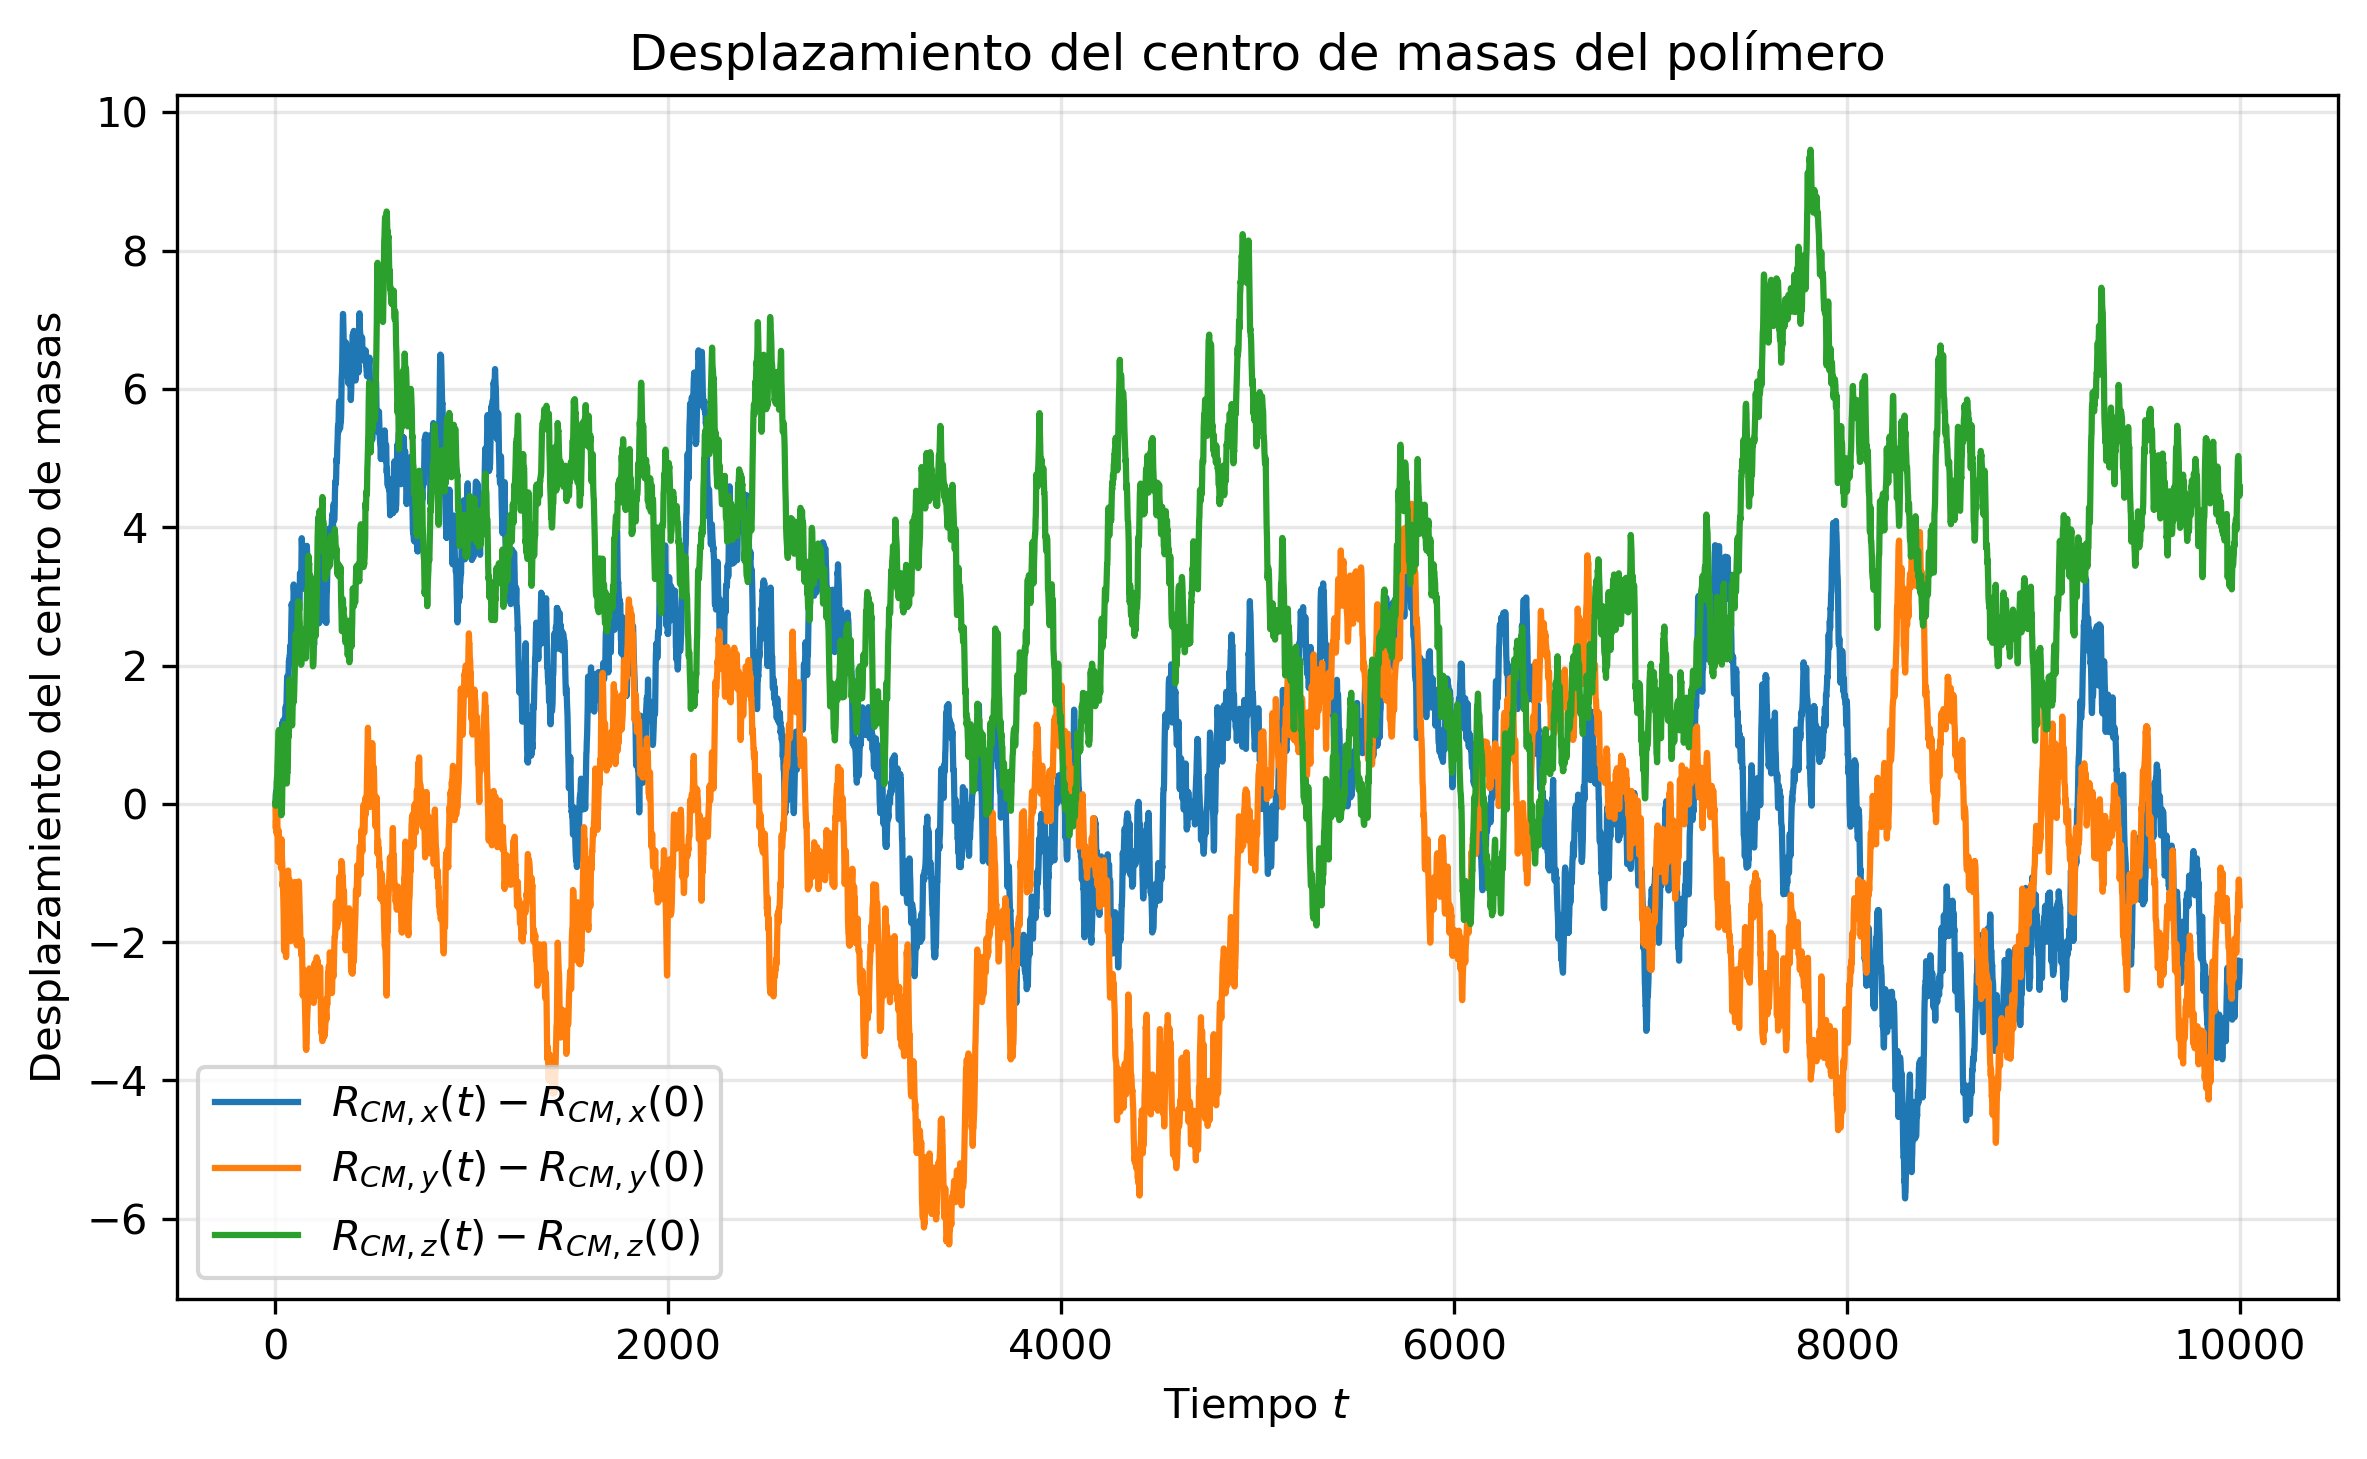
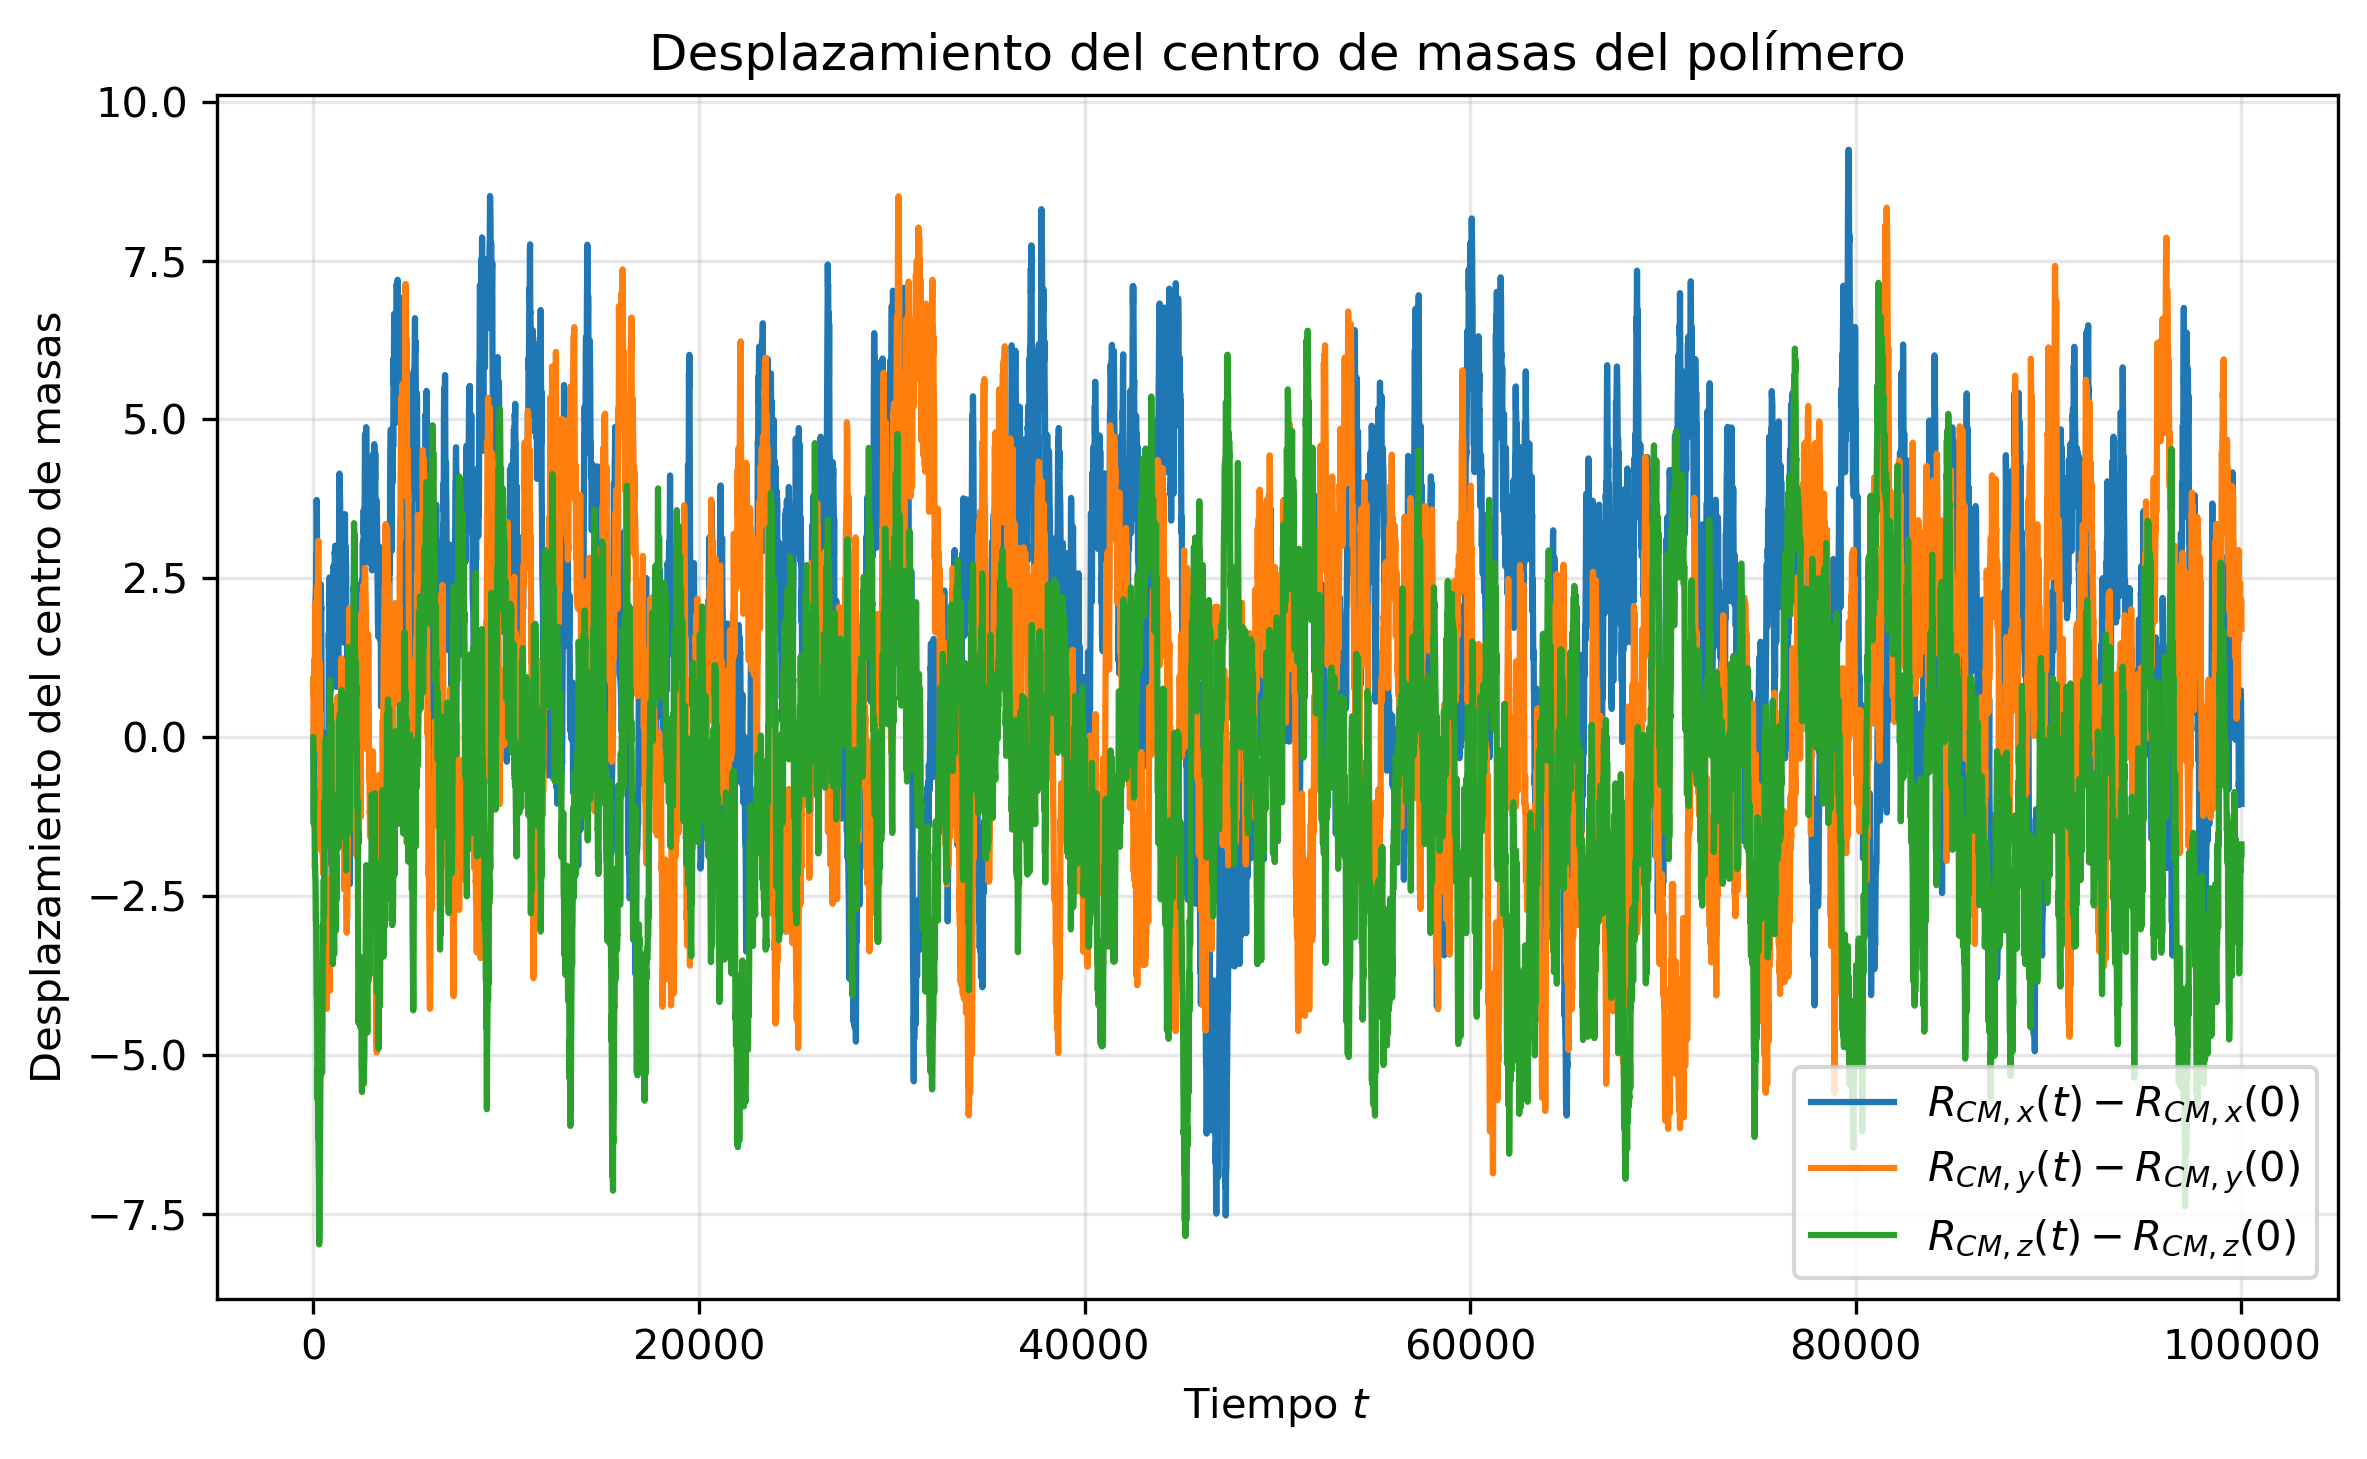
Force_sweep mejorado (ya estan todas laas tablas)

diff --git a/analysis/polymer_force_sweep.py b/analysis/polymer_force_sweep.py
@@ -15,7 +15,6 @@ data_file = project_root / "data" / "raw" / "polymer" / "polymer.csv"
 results_folder = project_root / "results" / "polymer" / "force_sweep"
 tables_folder = results_folder / "tables"
 figures_folder = results_folder / "figures"
-summary_file = tables_folder / "polymer_force_sweep.csv"
 figure_file = figures_folder / "polymer_end_to_end_vs_force.png"
 
 maximum_force = 100.0
@@ -83,6 +82,35 @@ def read_final_measurement(number_of_monomers):
     return final_time, last_x - first_x
 
 
+def read_existing_measurements(summary_file, spring_constant):
+    existing_measurements = {}
+
+    if not summary_file.exists():
+        return existing_measurements
+
+    with summary_file.open(newline="") as file:
+        rows = list(csv.DictReader(file))
+
+    for row in rows:
+        try:
+            row_spring_constant = float(row["ke"])
+            force = float(row["force"])
+            end_to_end_x = float(row["end_to_end_x"])
+            final_time = float(row["final_time"])
+        except (KeyError, TypeError, ValueError):
+            continue
+
+        if row_spring_constant == spring_constant:
+            existing_measurements[force] = (
+                row_spring_constant,
+                force,
+                end_to_end_x,
+                final_time,
+            )
+
+    return existing_measurements
+
+
 def main():
     if os.name == "nt":
         simulation_program = project_root / "bin" / "simulation.exe"
@@ -97,8 +125,15 @@ def main():
 
     if "N" not in config_values:
         raise RuntimeError("Falta el parámetro N en config/simulation.txt.")
+    if "ke" not in config_values:
+        raise RuntimeError("Falta el parámetro ke en config/simulation.txt.")
 
     number_of_monomers = int(float(config_values["N"]))
+    spring_constant = float(config_values["ke"])
+    summary_file = (
+        tables_folder
+        / f"polymer_force_sweep_k_{spring_constant:g}.csv"
+    )
     forces_low = np.linspace(1.0, 20, 19, endpoint = False)
     forces = np.linspace(20.0, maximum_force, number_of_forces)
     measurements = []
@@ -126,7 +161,9 @@ def main():
             final_time, end_to_end_x = read_final_measurement(
                 number_of_monomers
             )
-            measurements.append((force, end_to_end_x, final_time))
+            measurements.append(
+                (spring_constant, force, end_to_end_x, final_time)
+            )
             print(
                 f"  t_final = {final_time:g}, "
                 f"distancia en +x = {end_to_end_x:g}"
@@ -134,16 +171,29 @@ def main():
     finally:
         config_file.write_text(original_config)
 
+    existing_measurements = read_existing_measurements(
+        summary_file,
+        spring_constant,
+    )
+    for row in measurements:
+        existing_measurements[row[1]] = row
+    case_measurements = sorted(existing_measurements.values(), key=lambda row: row[1])
 
     with summary_file.open("w", newline="") as file:
         writer = csv.writer(file)
-        writer.writerow(("force", "end_to_end_x", "final_time"))
-        writer.writerows(measurements)
+        writer.writerow(("ke", "force", "end_to_end_x", "final_time"))
+        writer.writerows(case_measurements)
 
-    measured_forces = [row[0] for row in measurements]
-    distances = [row[1] for row in measurements]
+    measured_forces = [
+        row[1]
+        for row in case_measurements
+    ]
+    distances = [
+        row[2]
+        for row in case_measurements
+    ]
 
-    # # Leer los datos de la tabla de resultados, COMENTAR SI VAS A EJECUTAR LA SIMULACION
+    # # Leer los datos de la tabla de resultados, COMENTAR SI VAS A EJECUTAR LA SIMULACION 
     # with summary_file.open(newline="") as file:
     #     rows = list(csv.DictReader(file))
 

diff --git a/src/polymer_simulation.cpp b/src/polymer_simulation.cpp
@@ -4,8 +4,8 @@
 #include <stdio.h>
 #include <stdlib.h>
 
-#define POLYMER_WINDOW 10000
-#define POLYMER_MAX_THERMALIZATION_TIME 50000.0
+#define POLYMER_WINDOW 200000
+#define POLYMER_MAX_THERMALIZATION_TIME 100000.0
 
 void runPolymerSimulation(
     int algorithm,
@@ -128,7 +128,7 @@ void runPolymerSimulation(
 
     tolerance = 0.05;
 
-    requiredWindows = 5;
+    requiredWindows = 10;
 
     consecutiveWindows = 0;
     hasPreviousWindow = 0;

diff --git a/analysis/polymer_analysis.py b/analysis/polymer_analysis.py
@@ -551,7 +551,7 @@ ax.plot(
         :,
         2
     ],
-    marker="o",
+    marker=".",
     linewidth=1.2,
     label=f"$N={N}$"
 )
